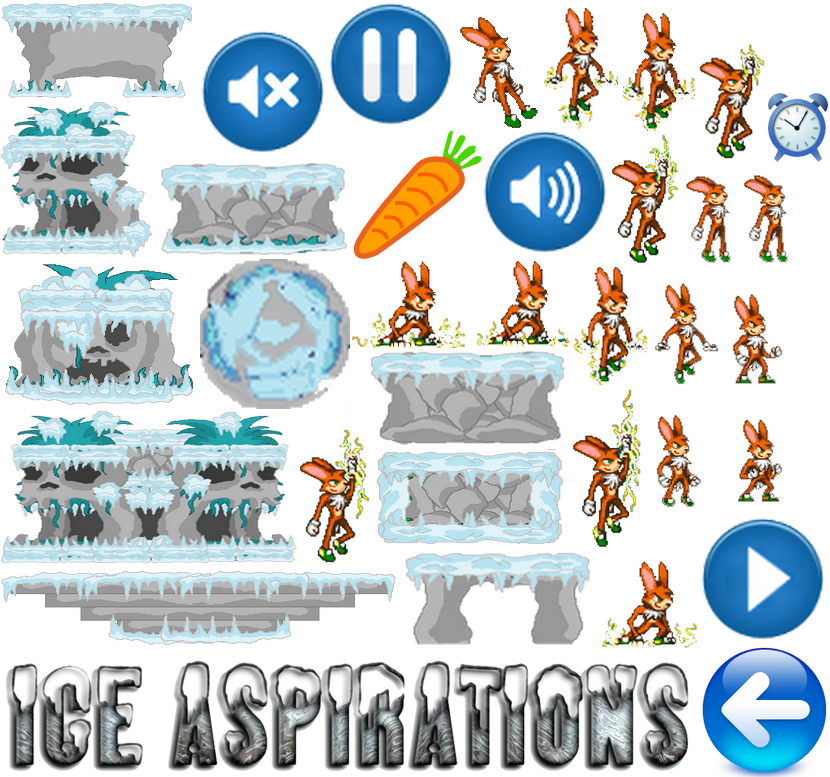
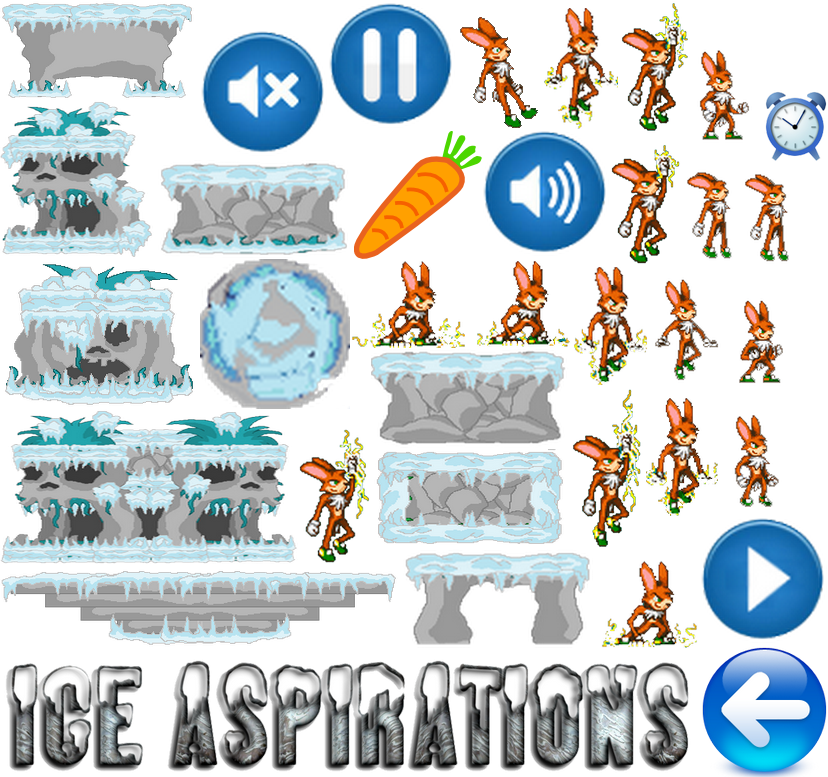
Added 3 animations (standing, jumping & fallin) for special carrot mode

diff --git a/IceAspirations-core/src/com/tanyelbariser/iceaspirations/screens/GameScreen.java b/IceAspirations-core/src/com/tanyelbariser/iceaspirations/screens/GameScreen.java
@@ -74,7 +74,7 @@ public class GameScreen implements Screen {
 	private Sprite playerSprite;
 	private Array<Body> platformArray;
 	private float frameTime;
-	private float allotedTime = 12;
+	private float allotedTime = 60;
 	private Label timeLeft;
 	private int maxHeight;
 	private ImageTextButton quit;
@@ -95,7 +95,7 @@ public class GameScreen implements Screen {
 	private Body carrot;
 	private Sprite carrotSprite;
 	private float heightLastCarrot = 0;
-	private float distanceBetweenCarrots = 155;
+	private float distanceBetweenCarrots = 158;
 	private float timeSinceCarrotTouched;
 	private BitmapFont red = new BitmapFont(Gdx.files.internal("red.fnt"),
 			false);
@@ -112,7 +112,7 @@ public class GameScreen implements Screen {
 		if (state.equals(State.Running)) {
 			allotedTime -= delta;
 			if (player.isCarrotTouched()) {
-				delta *= 2;
+				delta *= 1.5f;
 				player.setDazed(false);
 			}
 			timeLeft.setText("Score: " + String.valueOf(maxHeight)
@@ -132,7 +132,7 @@ public class GameScreen implements Screen {
 			float bottomScreenEdge = camera.position.y - camera.viewportHeight
 					/ 2;
 			updatePlayer(adjustedDelta, delta);
-			repositionCamera(topScreenEdge);
+			repositionCamera(topScreenEdge, bottomScreenEdge);
 			if (player.isCarrotTouched()) {
 				float carrotGravity = GRAVITY * (adjustedDelta / 2)
 						* (adjustedDelta / 2);
@@ -152,7 +152,7 @@ public class GameScreen implements Screen {
 			manageTimeScore();
 		}
 		drawToScreen(delta);
-		physicsDebugger.render(world, camera.combined);
+		// physicsDebugger.render(world, camera.combined);
 	}
 
 	private void updatePlayer(float adjustedDelta, float delta) {
@@ -176,15 +176,35 @@ public class GameScreen implements Screen {
 				timeDazed = 0;
 			}
 		} else if (player.getBody().getLinearVelocity().y > 2) {
-			Animation jumpAnimation = player.getjumpAnimation();
-			playerSprite = (Sprite) jumpAnimation.getKeyFrame(frameTime, false);
+			if (player.isCarrotTouched()) {
+				Animation specialJumpAnimation = player
+						.getSpecialJumpAnimation();
+				playerSprite = (Sprite) specialJumpAnimation.getKeyFrame(
+						frameTime, true);
+			} else {
+				Animation jumpAnimation = player.getjumpAnimation();
+				playerSprite = (Sprite) jumpAnimation.getKeyFrame(frameTime,
+						false);
+			}
 		} else if (player.getBody().getLinearVelocity().y < -4
 				& !player.isStanding()) {
-			playerSprite = player.getFallingSprite();
-			frameTime = 0;
+			if (player.isCarrotTouched()) {
+				Animation fallAnimation = player.getSpecialFallAnimation();
+				playerSprite = (Sprite) fallAnimation.getKeyFrame(frameTime,
+						true);
+			} else {
+				playerSprite = player.getFallingSprite();
+				frameTime = 0;
+			}
 		} else {
-			playerSprite = stand;
-			frameTime = 0;
+			if (player.isCarrotTouched()) {
+				Animation standAnimation = player.getSpecialStandAnimation();
+				playerSprite = (Sprite) standAnimation.getKeyFrame(frameTime,
+						true);
+			} else {
+				playerSprite = stand;
+				frameTime = 0;
+			}
 		}
 		boolean facingLeft = player.getFacingLeft() && playerSprite.isFlipX();
 		boolean facingRight = !player.getFacingLeft()
@@ -204,7 +224,7 @@ public class GameScreen implements Screen {
 
 	// Set camera position based on player position with
 	// high speed camera catch-up lag
-	private void repositionCamera(float topScreenEdge) {
+	private void repositionCamera(float topScreenEdge, float bottomScreenEdge) {
 		float playerY = player.getBody().getPosition().y;
 		float highSpeed = 30;
 		if (player.getBody().getLinearVelocity().y > highSpeed
@@ -216,6 +236,10 @@ public class GameScreen implements Screen {
 			camera.position.y += 3f;
 		} else if (playerY > camera.position.y + 2f) {
 			camera.position.y += 0.8f;
+		} else if (playerY > 0 && playerY < camera.position.y - 2f) {
+			camera.position.y -= 0.3f;
+		} else if (playerY < bottomScreenEdge) {
+			camera.position.y -= 3f;
 		} else if (playerY > 0) {
 			camera.position.y = playerY;
 		} else {
@@ -304,7 +328,7 @@ public class GameScreen implements Screen {
 				}
 			}
 			heightLastCarrot = camera.position.y;
-			distanceBetweenCarrots += 60;
+			distanceBetweenCarrots += 70;
 		}
 		carrotSprite.setPosition(
 				carrot.getPosition().x - carrotSprite.getWidth() / 2,
@@ -343,8 +367,7 @@ public class GameScreen implements Screen {
 				IceAspirations.getMusic().stop();
 				IceAspirations.getCarrotMusic().play();
 			}
-		} else if (IceAspirations.getCarrotMusic().isPlaying()) {
-			IceAspirations.getCarrotMusic().stop();
+		} else {
 			IceAspirations.getMusic().play();
 		}
 	}

diff --git a/IceAspirations-core/src/com/tanyelbariser/iceaspirations/entities/Player.java b/IceAspirations-core/src/com/tanyelbariser/iceaspirations/entities/Player.java
@@ -52,6 +52,9 @@ public class Player implements ContactListener, InputProcessor {
 	private boolean clockTouched = false;
 	private boolean dazed = false;
 	private boolean carrotTouched = false;
+	private Animation specialStandAnimation;
+	private Animation specialJumpAnimation;
+	private Animation specialFallAnimation;
 
 	public Player(World world) {
 		world.setContactListener(this);
@@ -73,7 +76,10 @@ public class Player implements ContactListener, InputProcessor {
 		body.createFixture(fixDef).setUserData("player");
 
 		shape.dispose();
-		createAnimations();
+		createAnimation();
+		createSpecialStandAnimation();
+		createSpecialJumpAnimation();
+		createSpecialFallAnimation();
 		Gdx.input.setCatchBackKey(true);
 	}
 
@@ -83,6 +89,18 @@ public class Player implements ContactListener, InputProcessor {
 
 	public Animation getjumpAnimation() {
 		return jumpAnimation;
+	}
+
+	public Animation getSpecialStandAnimation() {
+		return specialStandAnimation;
+	}
+
+	public Animation getSpecialJumpAnimation() {
+		return specialJumpAnimation;
+	}
+
+	public Animation getSpecialFallAnimation() {
+		return specialFallAnimation;
 	}
 
 	public Sprite getStandSprite() {
@@ -136,7 +154,7 @@ public class Player implements ContactListener, InputProcessor {
 		this.carrotTouched = carrotTouched;
 	}
 
-	private void createAnimations() {
+	private void createAnimation() {
 		Skin skin = IceAspirations.getSkin();
 		standSprite = skin.getSprite("Rabbit1");
 		standSprite.setSize(2.9f, 4.2f);
@@ -162,7 +180,7 @@ public class Player implements ContactListener, InputProcessor {
 		Sprite[] jumpSprites = new Sprite[] { standSprite, rabbit2, rabbit3,
 				rabbit4, rabbit5 };
 
-		jumpAnimation = new Animation(0.10f, jumpSprites);
+		jumpAnimation = new Animation(0.1f, jumpSprites);
 
 		fallingSprite = skin.getSprite("Rabbit6");
 		fallingSprite.setSize(3, 4.2f);
@@ -173,6 +191,70 @@ public class Player implements ContactListener, InputProcessor {
 		dazedSprite.setSize(3, 4.2f);
 		dazedSprite.setOrigin(dazedSprite.getWidth() / 2,
 				dazedSprite.getHeight() / 2);
+	}
+
+	private void createSpecialFallAnimation() {
+		Skin skin = IceAspirations.getSkin();
+		Sprite special1 = skin.getSprite("SpecialFalling1");
+		special1.setSize(2.9f, 4.2f);
+		special1.setOrigin(special1.getWidth() / 2, special1.getHeight() / 2);
+
+		Sprite special2 = skin.getSprite("SpecialFalling2");
+		special2.setSize(2.863f, 4.2f);
+		special2.setOrigin(special2.getWidth() / 2, special2.getHeight() / 2);
+
+		Sprite special3 = skin.getSprite("SpecialFalling3");
+		special3.setSize(2.9f, 4.1328f);
+		special3.setOrigin(special3.getWidth() / 2, special3.getHeight() / 2);
+
+		Sprite[] specialFallSprites = new Sprite[] { special1, special2,
+				special3, special2 };
+
+		specialFallAnimation = new Animation(0.1f, specialFallSprites);
+	}
+
+	private void createSpecialJumpAnimation() {
+		Skin skin = IceAspirations.getSkin();
+		Sprite special1 = skin.getSprite("SpecialJumping1");
+		special1.setSize(2.9f, 4.2f);
+		special1.setOrigin(special1.getWidth() / 2, special1.getHeight() / 2);
+
+		Sprite special2 = skin.getSprite("SpecialJumping2");
+		special2.setSize(2.985f, 4.33f);
+		special2.setOrigin(special2.getWidth() / 2, special2.getHeight() / 2);
+
+		Sprite special3 = skin.getSprite("SpecialJumping3");
+		special3.setSize(3.113f, 4.38f);
+		special3.setOrigin(special3.getWidth() / 2, special3.getHeight() / 2);
+
+		Sprite special4 = skin.getSprite("SpecialJumping3");
+		special4.setSize(3.07f, 4.45f);
+		special4.setOrigin(special4.getWidth() / 2, special4.getHeight() / 2);
+
+		Sprite[] specialStandSprites = new Sprite[] { special1, special2,
+				special3, special4, special3, special2 };
+
+		specialJumpAnimation = new Animation(0.1f, specialStandSprites);
+	}
+
+	private void createSpecialStandAnimation() {
+		Skin skin = IceAspirations.getSkin();
+		Sprite special1 = skin.getSprite("SpecialStanding1");
+		special1.setSize(3.5f, 3.15f);
+		special1.setOrigin(special1.getWidth() / 2, special1.getHeight() / 2);
+
+		Sprite special2 = skin.getSprite("SpecialStanding2");
+		special2.setSize(4.375f, 3.15f);
+		special2.setOrigin(special2.getWidth() / 2, special2.getHeight() / 2);
+
+		Sprite special3 = skin.getSprite("SpecialStanding3");
+		special3.setSize(3.395f, 3.15f);
+		special3.setOrigin(special3.getWidth() / 2, special3.getHeight() / 2);
+
+		Sprite[] specialStandSprites = new Sprite[] { special1, special2,
+				special3 };
+
+		specialStandAnimation = new Animation(0.1f, specialStandSprites);
 	}
 
 	public void update(float delta) {

diff --git a/IceAspirations-core/src/com/tanyelbariser/iceaspirations/screens/GameOverScreen.java b/IceAspirations-core/src/com/tanyelbariser/iceaspirations/screens/GameOverScreen.java
@@ -28,6 +28,11 @@ public class GameOverScreen implements Screen {
 		this.maxHeight = maxHeight;
 		if (IceAspirations.getTimeOutMusic().isPlaying()) {
 			IceAspirations.getTimeOutMusic().stop();
+			IceAspirations.getMusic().play();
+		}
+		if (IceAspirations.getCarrotMusic().isPlaying()) {
+			IceAspirations.getCarrotMusic().stop();
+			IceAspirations.getMusic().play();
 		}
 	}
 
@@ -59,14 +64,16 @@ public class GameOverScreen implements Screen {
 		// Create Label to show remaining game time
 		BitmapFont blue = IceAspirations.getBlue();
 		LabelStyle style = new LabelStyle(blue, Color.BLUE);
-		Label gameOver = new Label("GAME OVER\nScore: " + String.valueOf(maxHeight), style);
-		gameOver.setPosition(WIDTH /2 - gameOver.getWidth() / 2,
-				HEIGHT / 2- gameOver.getHeight() / 2);
+		Label gameOver = new Label("GAME OVER\nScore: "
+				+ String.valueOf(maxHeight), style);
+		gameOver.setPosition(WIDTH / 2 - gameOver.getWidth() / 2, HEIGHT / 2
+				- gameOver.getHeight() / 2);
 		stage.addActor(gameOver);
-		
+
 		backButtonSetUp();
 
 	}
+
 	private void backButtonSetUp() {
 		ImageButtonStyle imageStyle = new ImageButtonStyle();
 		Skin skin = IceAspirations.getSkin();
